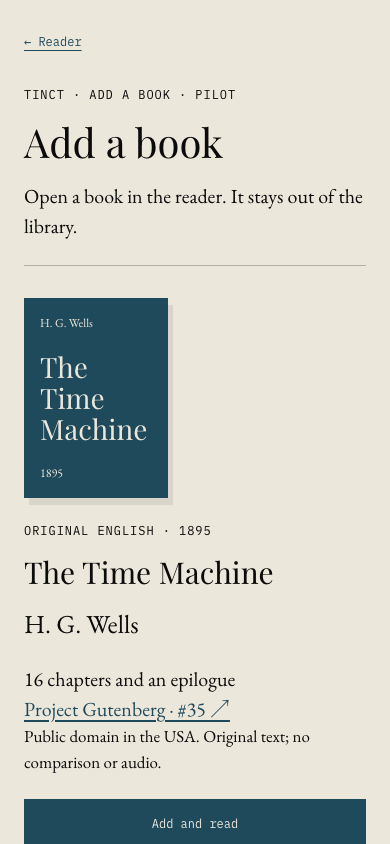
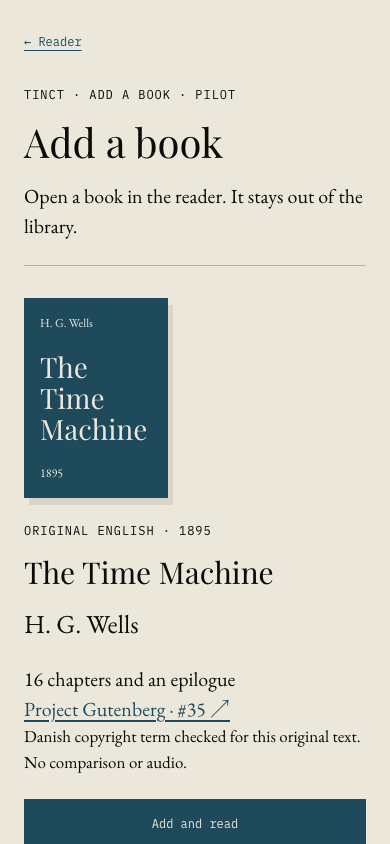
Require Danish edition rights review for Add reader pilot

Changed region(s): [[0.0615, 0.8626, 0.9231, 0.9242]]

diff --git a/app/src/addbooks/danishRights.test.ts b/app/src/addbooks/danishRights.test.ts
@@ -1,0 +1,84 @@
+import { describe, expect, it, vi } from 'vitest'
+import { execFileSync } from 'node:child_process'
+import { createHash } from 'node:crypto'
+import fs from 'node:fs'
+import { danishRightsReview, eligibleInDenmark, type DanishRightsReview } from './danishRights'
+
+const reviewed = danishRightsReview('pd-35', 'original-en')!
+const person = (deathYear: number | null, role = 'author') => ({ name: 'Test contributor', role, deathYear, evidence: 'https://example.org/biography' })
+const cases: Array<{ name: string; review: DanishRightsReview | undefined; year: number; allowed: boolean }> = [
+  { name: 'pinned Wells edition', review: reviewed, year: 2026, allowed: true },
+  { name: 'no review despite US availability', review: undefined, year: 2026, allowed: false },
+  { name: '1955 death is eligible in 2026', review: { ...reviewed, contributors: [person(1955)] }, year: 2026, allowed: true },
+  { name: '1956 death is still protected throughout 2026', review: { ...reviewed, contributors: [person(1956)] }, year: 2026, allowed: false },
+  { name: '1956 death becomes eligible in 2027', review: { ...reviewed, contributors: [person(1956)] }, year: 2027, allowed: true },
+  { name: 'latest joint author controls the term', review: { ...reviewed, contributors: [person(1900), person(1960)] }, year: 2026, allowed: false },
+  { name: 'recent translator blocks ancient work', review: { ...reviewed, contributors: [person(-300), person(1980, 'translator')] }, year: 2026, allowed: false },
+  { name: 'unknown death year', review: { ...reviewed, contributors: [person(null)] }, year: 2026, allowed: false },
+  { name: 'missing contributors', review: { ...reviewed, contributors: [] }, year: 2026, allowed: false },
+  { name: 'incomplete contributor list', review: { ...reviewed, contributorsComplete: false }, year: 2026, allowed: false },
+  { name: 'unreviewed edition additions', review: { ...reviewed, editionAuditComplete: false }, year: 2026, allowed: false },
+  { name: 'unresolved special term', review: { ...reviewed, specialCasesResolved: false }, year: 2026, allowed: false },
+  { name: 'old date is insufficient without review', review: { ...reviewed, reviewStatus: 'pending' }, year: 2026, allowed: false },
+  { name: 'US-only designation', review: { ...reviewed, basis: 'public-domain-in-USA' }, year: 2026, allowed: false },
+  { name: 'free download is insufficient', review: { ...reviewed, basis: 'free-download' }, year: 2026, allowed: false },
+  { name: 'no contributor evidence', review: { ...reviewed, contributors: [{ ...person(1900), evidence: '' }] }, year: 2026, allowed: false },
+  { name: 'unreviewed cover or audio scope', review: { ...reviewed, scope: 'text-and-audio' }, year: 2026, allowed: false },
+  { name: 'unpinned source', review: { ...reviewed, sourceSha256: '' }, year: 2026, allowed: false },
+]
+
+describe('Danish rights eligibility', () => {
+  it.each(cases)('$name', ({ review, year, allowed }) => {
+    expect(eligibleInDenmark(review, year)).toBe(allowed)
+  })
+
+  it('uses identical exclusion decisions in the Python builder and browser', () => {
+    const result = execFileSync('python3', ['-c', `
+import json, sys
+sys.path.insert(0, '../addbooks/scripts')
+from danish_rights import eligible
+print(json.dumps([eligible(c.get('review'), c['year']) for c in json.load(sys.stdin)]))
+`], { input: JSON.stringify(cases), encoding: 'utf8' })
+    expect(JSON.parse(result)).toEqual(cases.map(c => c.allowed))
+  })
+
+  it('pins the review to the converted artifact and provenance', () => {
+    const raw = fs.readFileSync('public/data/editions/pd-35-original-en.json')
+    const provenance = JSON.parse(fs.readFileSync('public/data/imports/pd-35-provenance.json', 'utf8'))
+    expect(createHash('sha256').update(raw).digest('hex')).toBe(reviewed.editionSha256)
+    expect(provenance.sourceSha256).toBe(reviewed.sourceSha256)
+    expect(provenance.danishRightsReview).toMatchObject(reviewed)
+    expect(danishRightsReview('pd-35', 'modern-en')).toBeUndefined()
+  })
+
+  it('rejects a source substitution before downloading or writing any edition', () => {
+    execFileSync('python3', ['-c', `
+import sys
+sys.path.insert(0, '../addbooks/scripts')
+from danish_rights import require_review
+for args in [('pd-35', 'original-en', 'https://example.org/other', '${reviewed.sourceSha256}'),
+             ('pd-35', 'original-en', 'https://www.gutenberg.org/cache/epub/35/pg35-images.html', '0' * 64),
+             ('pd-35', 'modern-en', '', '')]:
+    try:
+        require_review(*args)
+    except ValueError:
+        continue
+    raise AssertionError('Unreviewed edition/source was admitted')
+`])
+  })
+
+  it('removes a revoked review from Add, reader lookup and handoff', async () => {
+    vi.resetModules()
+    vi.doMock('./danishRights.json', () => ({ default: { policyVersion: 1, jurisdiction: 'DK', editions: [] } }))
+    try {
+      const { UNLISTED_READER_BOOKS, getReaderBook } = await import('../data/readerBooks')
+      const { createOpenReaderIntent } = await import('./readerHandoff')
+      expect(UNLISTED_READER_BOOKS).toEqual([])
+      expect(getReaderBook('pd-35')).toBeUndefined()
+      expect(createOpenReaderIntent({ bookId: 'pd-35', primaryEditionKey: 'original-en' })).toBeNull()
+    } finally {
+      vi.doUnmock('./danishRights.json')
+      vi.resetModules()
+    }
+  })
+})

diff --git a/app/src/addbooks/danishRights.ts b/app/src/addbooks/danishRights.ts
@@ -1,0 +1,36 @@
+import manifest from './danishRights.json'
+
+export interface DanishRightsReview {
+  bookId: string
+  editionKey: string
+  reviewStatus: string
+  basis: string
+  contributorsComplete: boolean
+  contributors: Array<{ name: string; role: string; deathYear: number | null; evidence: string }>
+  editionAuditComplete: boolean
+  specialCasesResolved: boolean
+  scope: string
+  sourceSha256: string
+  editionSha256: string
+  evidence: string[]
+}
+
+/** Conservative product gate, not a complete implementation of copyright law.
+ * Unknown data, anonymous works, special terms and licences require review.
+ * A catalogue's US public-domain flag never grants eligibility here. */
+export function eligibleInDenmark(review: DanishRightsReview | undefined, year = new Date().getUTCFullYear()): boolean {
+  if (!review || review.reviewStatus !== 'eligible-under-policy'
+    || review.basis !== 'named-contributors-life-plus-70'
+    || review.contributorsComplete !== true || review.editionAuditComplete !== true || review.specialCasesResolved !== true
+    || review.scope !== 'original-text-only' || !review.evidence.length
+    || !/^[a-f0-9]{64}$/.test(review.sourceSha256) || !/^[a-f0-9]{64}$/.test(review.editionSha256)
+    || !review.contributors.length || !Number.isInteger(year)) return false
+  return review.contributors.every(person => person.name && person.role && person.evidence
+    && Number.isInteger(person.deathYear) && person.deathYear !== null
+    && person.deathYear <= year - 71)
+}
+
+export function danishRightsReview(bookId: string, editionKey: string): DanishRightsReview | undefined {
+  if (manifest.jurisdiction !== 'DK' || manifest.policyVersion !== 1) return undefined
+  return manifest.editions.find(review => review.bookId === bookId && review.editionKey === editionKey)
+}

diff --git a/app/src/addbooks/AddBookPilot.tsx b/app/src/addbooks/AddBookPilot.tsx
@@ -11,7 +11,7 @@ export function AddBookPilot() {
   const [busy, setBusy] = useState(false)
   const [error, setError] = useState('')
   async function openBook() {
-    if (busy) return
+    if (busy || !book) return
     setBusy(true)
     setError('')
     try {
@@ -36,6 +36,7 @@ export function AddBookPilot() {
       setBusy(false)
     }
   }
+  if (!book) return <main className="add-book-pilot"><h1>Add a book</h1><p>No editions currently meet the Denmark eligibility checks.</p><a href="/reader">← Reader</a></main>
   return <main className="add-book-pilot">
     <a className="add-book-back" href="/reader">← Reader</a>
     <p className="add-book-eyebrow">Tinct · Add a book · Pilot</p>
@@ -48,7 +49,7 @@ export function AddBookPilot() {
         <h2>{book.title}</h2><p className="add-book-author">{book.author}</p>
         <p>16 chapters and an epilogue</p>
         <a href="https://www.gutenberg.org/ebooks/35" target="_blank" rel="noreferrer">Project Gutenberg · #35 ↗</a>
-        <p className="add-book-note">Public domain in the USA. Original text; no comparison or audio.</p>
+        <p className="add-book-note">Danish copyright term checked for this original text. No comparison or audio.</p>
         <button type="button" disabled={busy} onClick={openBook}>{busy ? 'Opening book…' : error ? 'Try again' : 'Add and read'}</button>
         {error && <p role="alert">{error}</p>}
         {busy && <p role="status">Checking the complete text…</p>}

diff --git a/app/src/data/readerBooks.ts b/app/src/data/readerBooks.ts
@@ -1,13 +1,19 @@
 import { getBook } from './bookRegistry'
 import type { Book } from '../types'
+import { danishRightsReview, eligibleInDenmark } from '../addbooks/danishRights'
 
 /** Explicit reader-only pilot. Never feed this list into library/SEO discovery. */
-export const UNLISTED_READER_BOOKS: readonly Book[] = [{
+const PILOT_CANDIDATES: readonly Book[] = [{
   id: 'pd-35', title: 'The Time Machine', author: 'H. G. Wells', year: 1895, wordCount: 32310,
   coverColor: '#1f4a5c', coverAccent: '#ece7db',
   editions: [{ key: 'original-en', language: 'en', style: 'original',
     label: 'Original English', year: 1895, aligned: false, hasAudio: false }],
 }]
+
+// Missing Danish evidence keeps a candidate out of Add and reader handoffs.
+export const UNLISTED_READER_BOOKS: readonly Book[] = PILOT_CANDIDATES
+  .map(book => ({ ...book, editions: book.editions.filter(edition => eligibleInDenmark(danishRightsReview(book.id, edition.key))) }))
+  .filter(book => book.editions.length > 0)
 
 export function isUnlistedReaderBook(id: string): boolean {
   return UNLISTED_READER_BOOKS.some(book => book.id === id)

diff --git a/addbooks/scripts/danish_rights.py b/addbooks/scripts/danish_rights.py
@@ -1,0 +1,39 @@
+"""Fail-closed Danish eligibility for the pinned text-only import pilot."""
+import json
+import re
+from datetime import datetime, timezone
+from pathlib import Path
+
+ROOT = Path(__file__).resolve().parents[2]
+MANIFEST = ROOT / 'app/src/addbooks/danishRights.json'
+
+def eligible(review, year=None):
+    year = year if year is not None else datetime.now(timezone.utc).year
+    if not isinstance(review, dict) or type(year) is not int:
+        return False
+    if (review.get('reviewStatus') != 'eligible-under-policy'
+            or review.get('basis') != 'named-contributors-life-plus-70'
+            or review.get('contributorsComplete') is not True
+            or review.get('editionAuditComplete') is not True
+            or review.get('specialCasesResolved') is not True
+            or review.get('scope') != 'original-text-only'
+            or not review.get('evidence')
+            or not re.fullmatch('[a-f0-9]{64}', review.get('sourceSha256', ''))
+            or not re.fullmatch('[a-f0-9]{64}', review.get('editionSha256', ''))):
+        return False
+    people = review.get('contributors', [])
+    return bool(people) and all(
+        p.get('name') and p.get('role') and p.get('evidence')
+        and type(p.get('deathYear')) is int and p['deathYear'] <= year - 71
+        for p in people)
+
+def require_review(book_id, edition_key, source_url, source_sha256):
+    manifest = json.loads(MANIFEST.read_text())
+    if manifest.get('jurisdiction') != 'DK' or manifest.get('policyVersion') != 1:
+        raise ValueError('Danish rights policy missing or unsupported')
+    record = next((r for r in manifest['editions'] if r['bookId'] == book_id and r['editionKey'] == edition_key), None)
+    if not eligible(record):
+        raise ValueError('Edition excluded: Danish rights evidence missing, unresolved, or term not expired')
+    if record['sourceUrl'] != source_url or record['sourceSha256'] != source_sha256:
+        raise ValueError('Edition excluded: source differs from Danish rights review')
+    return record

diff --git a/addbooks/scripts/build-reader-pilot.py b/addbooks/scripts/build-reader-pilot.py
@@ -1,5 +1,6 @@
 #!/usr/bin/env python3
 """Pinned, fail-closed Gutenberg HTML -> Tinct reader edition. Python stdlib only."""
+from danish_rights import require_review
 import hashlib
 import json
 import re
@@ -63,6 +64,7 @@ class Chapters(HTMLParser):
             raise ValueError(f'Uncaptured text inside chapter: {text!r} at {self.getpos()}')
 
 def build():
+    rights = require_review('pd-35', 'original-en', SOURCE, SOURCE_SHA256)
     cached = ROOT / 'addbooks/.cache/pg35.html'
     cached.parent.mkdir(parents=True, exist_ok=True)
     if not cached.exists():
@@ -92,12 +94,15 @@ def build():
     assert text.endswith('gratitude and a mutual tenderness still lived on in the heart of man.')
     assert not re.search(r'Project Gutenberg|START OF|END OF|<[^>]+>', text)
     data = (json.dumps({'chapters': chapters}, ensure_ascii=False, separators=(',', ':')) + '\n').encode()
+    if hashlib.sha256(data).hexdigest() != rights['editionSha256']:
+        raise ValueError('Converted text differs from the Danish rights-reviewed artifact')
     destination = ROOT / 'app/public/data/editions/pd-35-original-en.json'
     destination.write_bytes(data)
     report = {
         'bookId': 'pd-35', 'title': 'The Time Machine', 'author': 'H. G. Wells',
         'sourceId': '35', 'source': SOURCE, 'catalogue': 'https://www.gutenberg.org/ebooks/35',
-        'rights': 'Public domain in the USA (Gutenberg catalogue); original English text, 1895. H. G. Wells died in 1946.',
+        'rights': 'DK: eligible under the recorded text-only review; ordinary economic term expired 2017-01-01. US: public domain per Gutenberg.',
+        'danishRightsReview': rights,
         'sourceSha256': digest, 'editionSha256': hashlib.sha256(data).hexdigest(),
         'chapters': len(chapters), 'paragraphs': sum(len(c['paragraphs']) for c in chapters),
         'words': len(text.split()), 'bytes': len(data),

diff --git a/addbooks/DANISH-RIGHTS.md b/addbooks/DANISH-RIGHTS.md
@@ -1,0 +1,83 @@
+# Danish rights eligibility for Add
+
+Engineering policy, checked 2026-10-01. This is a conservative admission rule for
+new imports, not legal advice, a lawyer's clearance, a guarantee against claims,
+or a worldwide public-domain determination. Have Danish copyright counsel review
+the policy before opening a broad commercial catalogue.
+
+## Why a US catalogue flag is insufficient
+
+Denmark's ordinary term for a named author is the author's life plus 70 years,
+counted through the end of the seventieth year after death. Joint works use the
+last surviving author. In 2026 the ordinary cutoff is therefore **1955**, not
+1956. An English-language text is still subject to applicable Danish rights;
+language is not a jurisdiction filter.
+
+Translations and creative adaptations have their own rights. Cover art,
+illustrations, introductions, annotations, compilations and recordings may also
+need separate permission. Anonymous works and first publication of previously
+unpublished works have special rules; section 64 can provide a 25-year
+publication right. Attribution and integrity considerations do not disappear
+merely because the ordinary economic term has ended (including section 75).
+
+Sources:
+
+- [Danish Copyright Act, sections 3–6, 63–64 and 75](https://www.retsinformation.dk/eli/lta/2023/1093).
+- [Ministry of Culture: books and texts](https://kum.dk/kulturomraader/vil-du-vide-mere-om-ophavsret/boeger-og-tekster).
+- [Standard Ebooks' US public-domain policy](https://standardebooks.org/about/standard-ebooks-and-the-public-domain).
+- [Project Gutenberg licence and non-US guidance](https://www.gutenberg.org/policy/license.html).
+
+Neither a Gutenberg US designation nor inclusion in Standard Ebooks clears the
+underlying work in Denmark. “Free to download,” an author's age, and a publisher's
+general philosophy are not reuse permissions. A modern book needs an explicit
+licence covering the exact edition, territory and intended commercial uses.
+Redistribution, adaptation and audio each need consideration. The pilot does not
+yet admit licensed works automatically.
+
+## Enforced scope
+
+The shared record in `app/src/addbooks/danishRights.json` identifies a book and
+edition, all relevant contributors and evidence, a completed edition audit,
+resolved special cases, and immutable source/output SHA-256 hashes. Missing or
+unresolved evidence means **excluded**, not presumed public domain. Source
+metadata alone cannot create a completed review.
+
+- The converter refuses unreviewed editions and substituted source/output bytes.
+- The Add list and unlisted reader handoffs use the same reviewed edition list.
+- Python and browser tests exercise the same acceptance/exclusion cases.
+- Revoking a review removes the edition from Add and handoffs on the next build.
+  Previously delivered or directly addressed static files require separate
+  removal/cache handling; this gate is not a remote revocation system.
+- Cover art and audio are outside this review. The pilot uses a typographic cover
+  and has no recording, translation, introduction or annotations.
+
+Only **The Time Machine, original English text**, is currently admitted. Wells
+died in 1946 ([Imperial College biography](https://www.imperial.ac.uk/centenary/images/presskit/PR_Imperial.pdf));
+the novel was published during his lifetime in 1895. Its ordinary Danish economic
+term ended on 2016-12-31. The review applies to the exact converted chapters and
+epilogue, not everything found in any edition bearing that title. The checked
+source, output and conversion limitations remain in the provenance record.
+
+The existing public Tinct library has **not** been audited by this change. The
+separate search prototype on `codex/addbooks-search-prototype` is still a US-based
+discovery dataset and must not become an import eligibility list. Before wiring
+it into Add, filter **editions before grouping works**, remove works with no
+eligible edition, and choose a preferred edition only among eligible ones.
+Matching a title already on Tinct must not bypass the review.
+
+## Expansion checklist
+
+1. Gather contributor identities, death dates and evidence per exact edition;
+   audit additions, translations and first-publication history. Uncertain or
+   special-case records stay out pending rights review. Do not infer missing
+   translators or dates from the underlying author's record.
+2. Review source terms independently from the underlying work's copyright.
+   Retain attribution, edition provenance and an audit trail.
+3. Introduce a separate licence-based path for modern open books and essays,
+   with licence text/version, rights holder, territories, commercial permissions,
+   attribution requirements and restrictions. Do not reinterpret those books as
+   public domain.
+4. Audit the existing Tinct library separately and assess other countries where
+   Tinct distributes. Danish eligibility alone is not worldwide clearance.
+5. Before broader launch, agree a takedown/contact process and review how to
+   withdraw assets and cached copies when a rights record is corrected.

diff --git a/addbooks/READER-PILOT.md b/addbooks/READER-PILOT.md
@@ -19,7 +19,7 @@ The converter uses Python's standard HTML parser. It keeps source chapter and pa
 
 The converter checks title, author, language, source checksum, every supported chapter tag, opening and closing text and chapter completeness. Changed upstream bytes fail closed until someone inspects and updates the source pin. This source-specific pilot uses HTML because the Gutenberg EPUB endpoint failed during acquisition. A general EPUB importer remains future work.
 
-The underlying English text is public domain in the USA according to Gutenberg. Publication year is 1895; Wells died in 1946. Gutenberg's US designation alone is not a worldwide rights policy. Further catalogue expansion needs explicit jurisdiction/edition checks and source terms review. The source link and provenance accompany this pilot.
+The original English text passes the conservative [Danish rights eligibility policy](DANISH-RIGHTS.md): Wells died in 1946 and the ordinary Danish economic term ended on 2016-12-31. Both the builder and the reader-only list require a documented edition review; missing or unresolved evidence excludes an edition. Source and converted bytes are pinned to that review. Gutenberg's US designation alone is never sufficient. This covers the original text only, not arbitrary translations, added material, covers or audio. The existing public library and separate US-based search dataset have not been audited by this change.
 
 ## Reproduce
 
@@ -49,8 +49,9 @@ The browser test starts an ephemeral localhost server for `app/dist`, launches i
 ## Verification record
 
 - Baseline: 2,929 tests passed, one skipped.
-- Final: 2,933 tests passed, one skipped; production build and `verify-bundle` passed.
-- Verified bundle: `index-DXjuGmzJ.js`.
+- Final including Danish eligibility: 2,955 tests passed, one skipped; production build and `verify-bundle` passed.
+- Danish gate: 22 regression checks cover term boundaries, joint contributors, translators, missing evidence, source substitution, artifact integrity, Python/browser agreement and revoked handoffs.
+- Verified bundle: `index-CNOce9vu.js`.
 - Desktop 1365×900 and phone 390×844: Add, failed-download retry, complete contents, chapter selection, page turns with consecutive source-word boundaries, short paragraphs sharing a page, reload/resume, repeated Add and epilogue. Explain selection was exercised with a labelled mock streaming response. No horizontal overflow or page errors.
 - Screenshots capture the actual reader from the locally served production build. No LLM requests were made. The production companion routes were checked with GET requests (405 Method not allowed), which return before provider invocation.
 
@@ -66,4 +67,4 @@ This proves a single book can pass through conversion and into the real reader w
 
 Unlisted assets are accessible to anyone who knows their URL. This is not private file storage or an authenticated private library. Existing reading-position storage is reused; no Supabase schema, Worker, API, CI, dependency, taxonomy or registry changes were required. Browser QA verifies guest/local position persistence. Signed-in cross-device sync, offline installation, native Android and live AI generation were not tested. Explain UI and structured request context were checked with mocked provider responses. Narration is explicitly unavailable for the unlisted book, and its contents menu does not link to a nonexistent library introduction.
 
-Next: approve and verify the unlisted live release; connect one search result to this flow; generalize the converter with source-specific structural checks and immutable source/edition IDs. Only then add durable import jobs, private ownership where needed, source-rights gating and broader book formats. Public-library publication remains a separate decision.
+Next: approve and verify the unlisted live release; apply the Danish edition review to search candidates before connecting search to this flow; generalize the converter with source-specific structural checks and immutable source/edition IDs. Only then add durable import jobs, private ownership where needed, a separate licence-based eligibility path and broader book formats. Public-library publication remains a separate decision.
